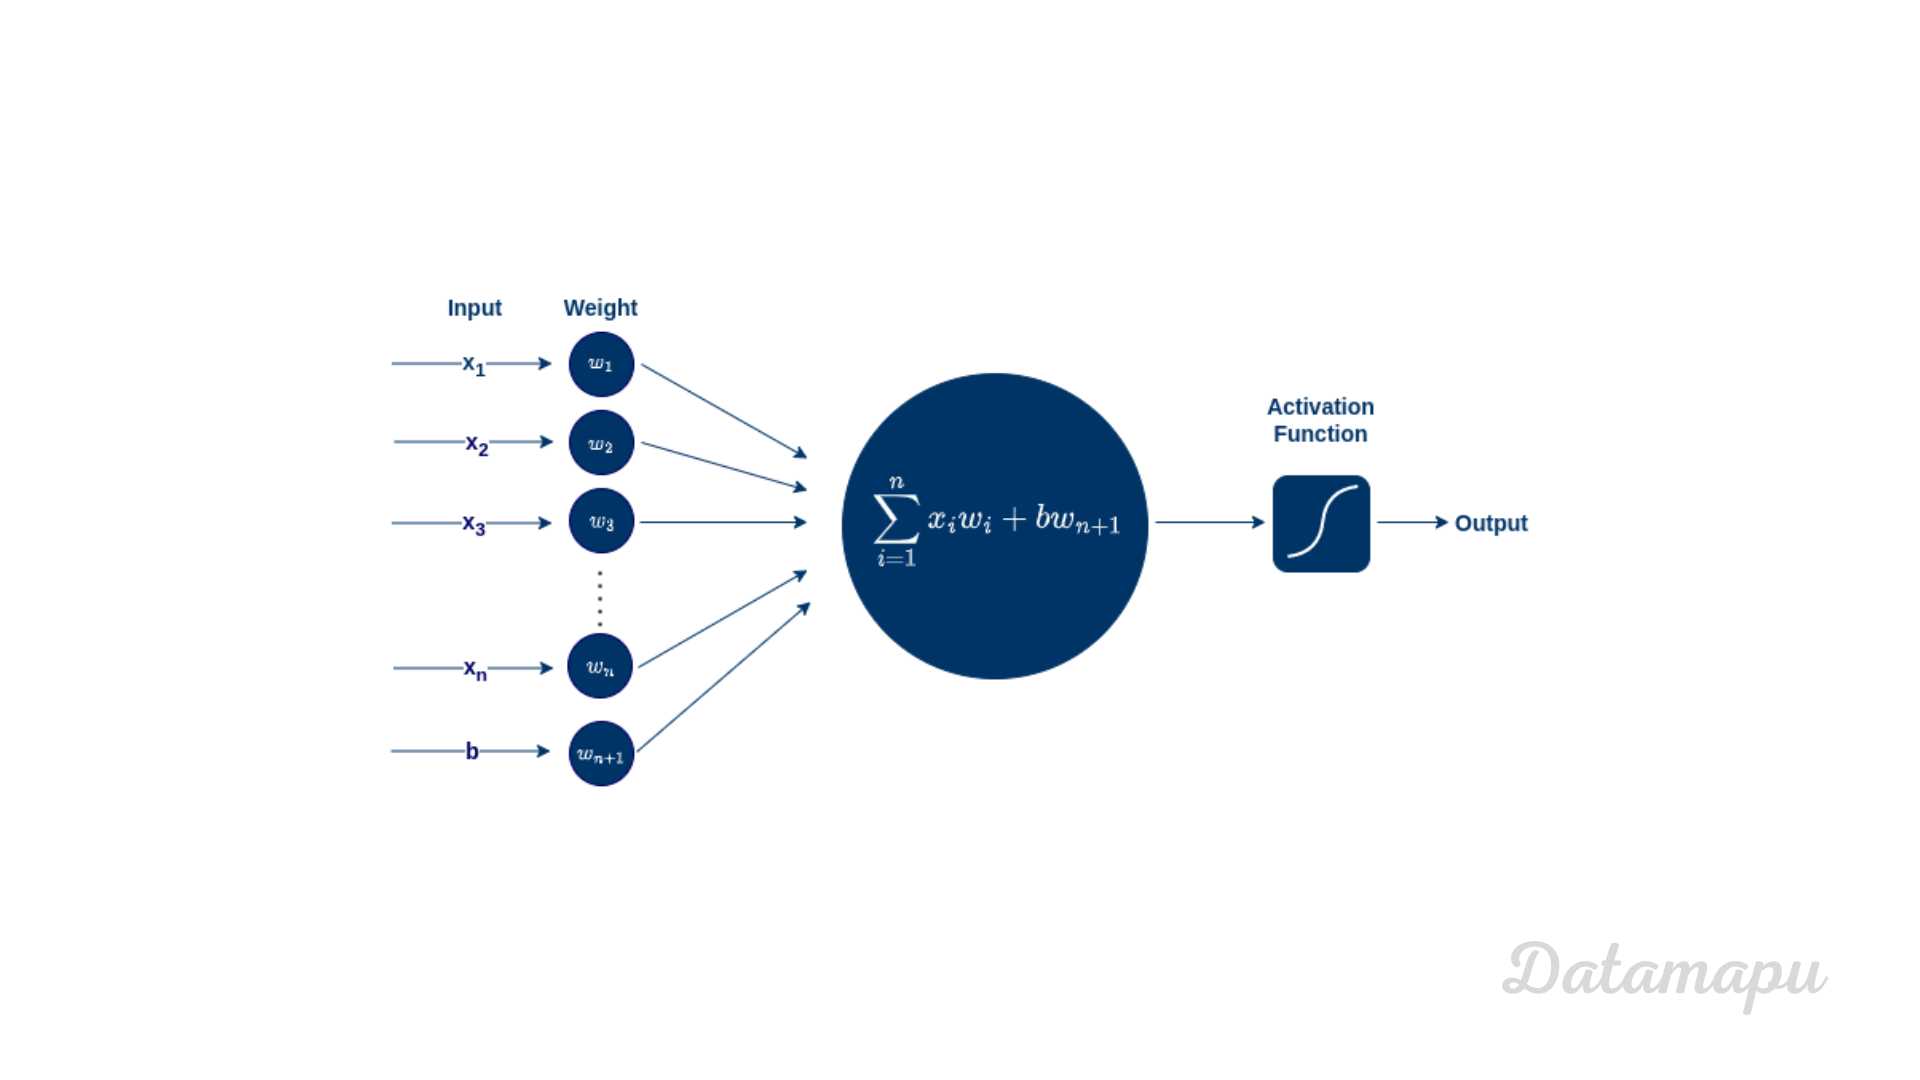
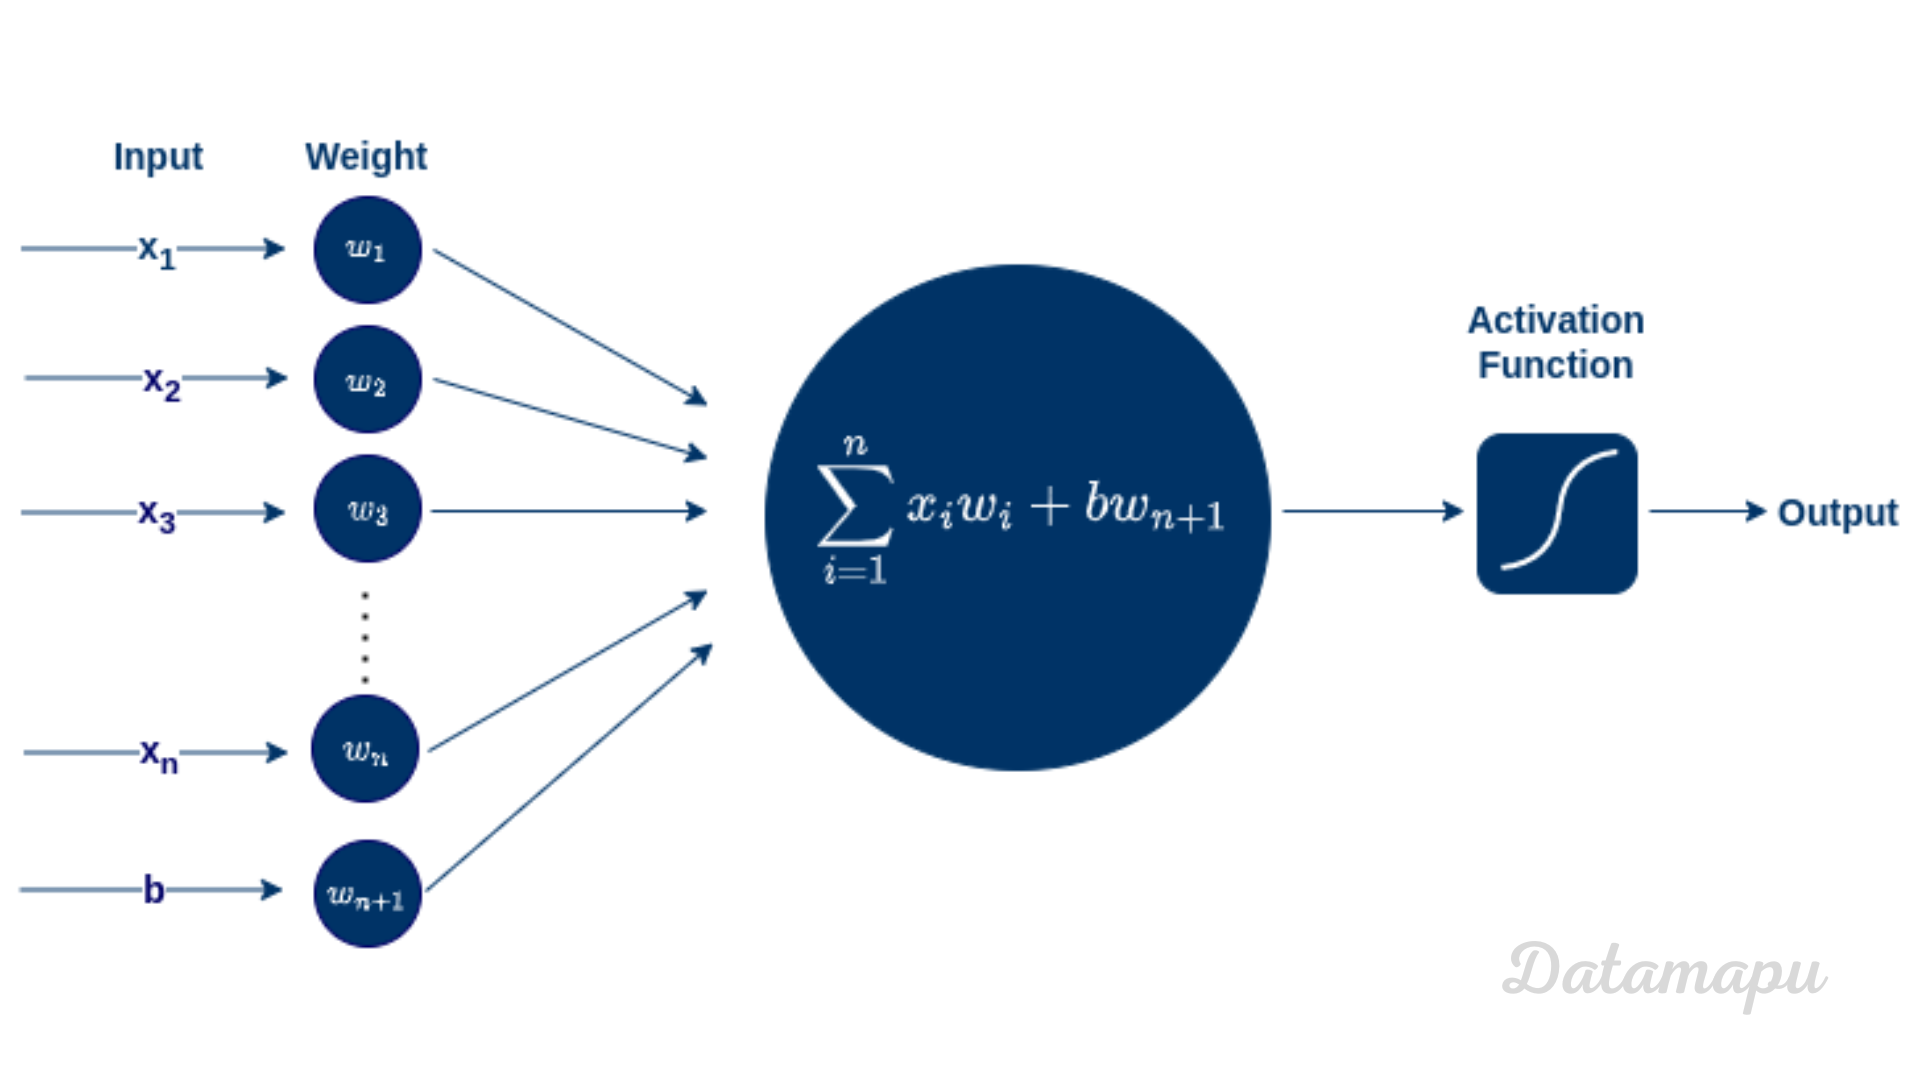
ai-ml-dl

diff --git a/content/posts/2023/20231102_ai_ml_dl.md b/content/posts/2023/20231102_ai_ml_dl.md
@@ -2,14 +2,12 @@
 title = 'What is Deep Learning?'
 date = 2023-11-02T21:44:06+01:00
 draft = true
-featured_image = '/images/20231102_ai_ml_dl/'
+featured_image = '/images/20231102_ai_ml_dl/neural_net2.png'
 tags = ["Data Science", "Machine Learning", "Deep Learning", "Artificial Intelligence"]
 categories = ["Data Science", "Machine Learning", "Deep Learning", "Artificial Intelligence"]
 keywords = ["Data Science", "Machine Learning", "Deep Learning", "Artificial Intelligence"]
 +++
 
-
-![ai_ml_dl](/images/20231102_ai_ml_dl/)
 ## What is Deep Learning?
 
 In this article we will learn what Deep Learning is and understand the difference to AI and Machine Learning. Often these three terms are used interchangable, they are however not the same. The following diagram illustrates how they are related.
@@ -43,13 +41,13 @@ It is often illustrated as shown in the next plot. The name and structure of a N
 
 **Neuron**
 
-Let's zoom in and understand, how a neuron works. The following plot illustrates a single neuron in more detail.
+Let's zoom in and understand, how a *neuron* works. The following plot illustrates a single neuron in more detail.
 Each neuron has one or more floating point inputs, the so-called. input data, here shown as $x_1$ to $x_n$.
 Each of these input numbers is multiplied with a weight - $w_1$ to $w_n$. 
 Then the weighted sum of the inputs is taken and additionally, an extra constant weight, which is the bias term is added, here shown as $b$. These weights ($w_1$ to $w_n$) are learned during the training of the neural net. We will discuss how this works later.
-Next, a non-linear function - the so-called “activation function” is applied to this sum
-This is a pre-defined function and we will in the next paragraph how such an “activation function” looks like.
-Finally the neuron returns an output value, which is also a floating point number
+Next, a non-linear function - the so-called *activation function* is applied to this sum.
+This is a pre-defined function and we will in the next paragraph how such an activation function looks like.
+Finally the neuron returns an output value, which is also a floating point number.
 
 ![ai_ml_dl](/images/20231102_ai_ml_dl/neuron.png)
 *Illustration of one Neuron of a Neural Net.*
@@ -57,7 +55,7 @@ Finally the neuron returns an output value, which is also a floating point numbe
 **Activation Function**
 
 The purpose of the activation function is to introduce non-linearity into the output of a neuron. 
-A neural network without an activation function is essentially just a linear regression model. The activation function does the non-linear transformation to the input, making it capable to learn and perform more complex tasks. 
+A Neural Network without an activation function is essentially just a linear regression model. The activation function does the non-linear transformation to the input, making it capable to learn and perform more complex tasks. 
 Some typical activation function are shown in the next plot.
 
 The **Binary Stepfunction** is $0$ for $x <= 0$ and $1$ elsewhere. This is one of the simplest activation functions.
@@ -78,14 +76,46 @@ Also similar the **Inverse Tangent function (ArcTan)**, which goes from $-π/2$ 
 
 **Neural Net**
 
-Multiple neurons can be joined together by connecting the output of one neuron with the input of another. This then results in a neural net as illustrated in the next plot. The connections are associated with weights that determine the “strength” of the connection. The weights - aas mentioned earlier - are adjusted during training. Several neurons are aggregated into layers in a Neural Net, we distinguish between the “input layer” at the beginning, the “output layer” at the end, and the so-called “hidden layers” in between. In the following plot the weights are drawn associated to layers. They are however different for each connection, that is $w_1$ to $w_4$ in this illustration are vectors, that contain the weights for each connection. The signal - that is the data - travels from input to the output and passes through the so-called “hidden” layers.
+Multiple neurons can be joined together by connecting the output of one neuron with the input of another. This then results in a neural net as illustrated in the next plot. The connections are associated with weights that determine the “strength” of the connection. The weights - aas mentioned earlier - are adjusted during training. Several neurons are aggregated into layers in a Neural Net, we distinguish between the *input layer* at the beginning, the *output layer* at the end, and the so-called *hidden layers* in between. In the following plot the weights are drawn associated to layers. They are however different for each connection, that is $w_1$ to $w_4$ in this illustration are vectors, that contain the weights for each connection. The signal - that is the data - travels from input to the output and passes through the hidden layers.
 
 ![ai_ml_dl](/images/20231102_ai_ml_dl/layer.png)
 *Illustration of a Neural Net with 5 layers: 1 input layer, 3 hidden layers, and 1 output layer.*
 
 ### How does a Neural Net Learn?
 
+Until now, we saw how a neural net is organized. But we didn’t discuss yet, how the weights we use to calculate the output are determined. The process of finding the weights and bias is called *training*, this is the phase, where the Neural Net is learning. Training a neural net is an iterative process. On a high level the training process looks like this:
+
+![ai_ml_dl](/images/20231102_ai_ml_dl/neural_net_learning.png)
+*Illustration of the learning process of a Neural Net.*
+
+1. Initially the weights are randomly generated
+2. Then the output of the neural net is calculated. This is the so-called forward pass.
+3. Next the error between the output of the neural net and the true Labels is calculated. This is the so-called Loss.
+4. At the beginning with random weights the results of the neural net will usually not be good.
+5. We check if the stopping criterium, which we defined is fullfilled.
+6. If it is Not fulfilled, the weights are adjusted in the so-called backward pass and the process starts again, i.e. we calculate the output (with the new weights), calculate the error compared to the true labels, which is then hopefully smaller than before - if the stopping criterium is not fulfilled, we adjust the weights, and so on. This is repeated until the stopping criterium is achieved, then the training ends.
+
+**In summary this means the weights are iteratively adjusted and optimized, such that the error compared to the true values is minimized.** But how can we achieve that the error gets smaller? To understand that, we have to focus on the loss. We already mentioned the “loss” as the error between the neural net output and the true label. The function we use to calculate this error is the so-called loss function. The choice of the Loss function depends on the problem you are considering. Typical loss functions are, the Mean Squared Error (MSE) for regression problems or cross entropy for classification problems. The Loss Function is a function of the weights and biases. We want the loss to be as small as possible, in other words this means, that we want to minimize the loss function, with respect to the weights and the bias. That is, **the goal for the training of a neural net is to adjust the weights, such that the Loss function is minimized.** There are different optimization techniques to approach this minimization problem, we will discuss the Gradient Descent, which is a standard algorithm for optimization.
+
 **Gradient Descent**
 
+As we just learned we have to minimize the loss function in order to train a Nural Net. To do this we can use different optimization techniques. We will have a look at one of these algorithms - the *Gradient Descent*. Here, we will have a high-level overview. Here we illustrate the algorithm on a simplified example. The plot below shows the MSE ans loss function $L$. We consider the one-dimensional case, that means we assume $L$ is a function of just one weight ($w$).
+
+![ai_ml_dl](/images/20231102_ai_ml_dl/gradient_descent.gif)
+*Ilustration of Gradient Descent.*
+
+In Gradient Descent we start with some random value for the weight - here illustrated as $w_1$ - then we take small steps towards the minimum. To understand gradient descent we have to recall what the gradient is. The gradient of a function at a specific point, is the direction of the steepest ascent. That is, if we want to find the minimum, we have to move to the opposite direction, that is towards the direction of the negative of the gradient. This is the direction of the of the steepest descent. How big the step is, we take is defined by the step size, a variable also called *learning rate* in the context of Machine Learning. This is a hyperparameter we have to define. Hyperparameters in Deep Learning have the same meaning as in classical machine learning. They are  parameters whose values are used to control the learning process. In contrast, to other parameters (as e.g. weights), which are derived during training. When training a Neural Network you may want to try different values. The calculation of the gradients is done by an algorithm called backpropagation. In this article we are not going into further detail. The choice of the learning rate influences the training. When you choose the learning rate to be very small, then training takes very long. When you choose it too large you may miss the minimum. The weight of the next iteration is then updated by subtracting the learning rate multiplied by the gradient of the loss function at the previous weight. In practice a lot of variants Gradient Descent exist, for example classical Gradient Descent is applied the entire dataset, before the weights are updated, this may take long if the dataset is large. A common variant is the mini-batch gradient descent, where data is passed in mini-batches through the network and the updates are calculated after each mini-batch.
+
 ### How much Data do we need? 
+
+A question often asked is, how much data is actually necessary to use Deep Learning. Deep Learning is known to need a large amount of data, but what does that mean? Unfortunately there is no answer to this, in the sense of giving a specific number of data points.
+The number of data needed, depends on different factors, as e.g. the complexity of the task (what you not always know in advance),
+ the quality of the available data, and the complexity of the network. In general, adding more data improves the performance, especially for complex tasks with large neural networks. However, if the data you add is too similar to the data you already have, it will not give much new information to the Neural Network. If you don’t have much data available, but want to use a complex Neural Net, you can can consider using a pretrained model (trained on a similar task) or data augmentation (especially when working with image data).
+
+### Summary
+
+We discussed how Deep Learning is defined and learned that Deep Learning is a subset of Machine Learning.
+We introduced the structure of Neural Nets and learned that it consists of a set of connected Neurons and that Activation Functions are used to introduce non-linearity into a Neural Net. We looked from a high level perspective how the learning process works and learned, that training a Neural Net is an iterative process, which aims to minimize the loss function. Lastly, we briefly discussed how much data is needed to perform deep learning. Unfortunately, there is no real answer to this question.
+How much data is needed, depends on the problem we want to solve, the network, and the quality of the data.
+Generally speaking, we can say: the more data, the better.
 

diff --git a/content/posts/2023/20230913_datascience_lifecycle.md b/content/posts/2023/20230913_datascience_lifecycle.md
@@ -3,8 +3,8 @@ title = 'The Data Science Lifecycle'
 date = 2023-09-13T21:28:42+02:00
 draft = false
 featured_image = '/images/20230913_datascience_lifecycle/ds_lifecycle.jpg'
-tags = [ "Data Science"]
-categories = [ "Data Science" ]
+tags = [ "Data Science", "Machine Learning"]
+categories = [ "Data Science", "Machine Learning"]
 keywords = ["Data Science", "Lifecycle", "Machine Learning"]
 +++
 
